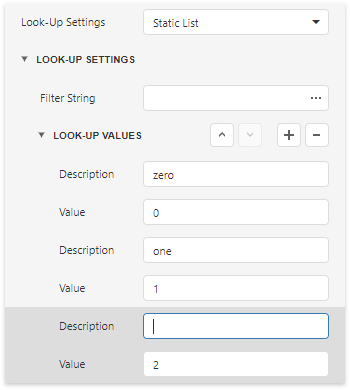
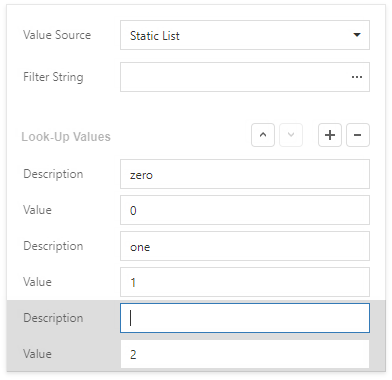
Update web parameters overview

diff --git a/interface-elements-for-web/articles/report-designer/shape-report-data/use-report-parameters/parameters-overview.md b/interface-elements-for-web/articles/report-designer/shape-report-data/use-report-parameters/parameters-overview.md
@@ -4,73 +4,94 @@ author: Anna Vekhina
 ---
 # Parameters Overview
 
-You can use report parameters to pass data to a report before it has been published. Parameter values are specified in the **Preview Parameters** panel.
+You can use report parameters to pass data to a report before it is generated. Parameter values are specified in the **Preview Parameters** panel.
 
-## Create Parameters
-To create a report parameter, switch to the [Field List](../../report-designer-tools/ui-panels/field-list.md), select the **Parameters** node and click **Add parameter**.
+Add Parameters
+
+Switch to the [Field List](../../report-designer-tools/ui-panels/field-list.md), select **Parameters** and click the ![](../../../../images/eurd-web-parameters-button-plus.png) button.
 
 ![](../../../../images/eurd-web-parameters-add-parameter-via-field-list.png)
 
-Click the **Edit** button to specify parameter properties. 
+This invokes the **Add Parameter** dialog where you can configure the created parameter.
 
-![](../../../../images/eurd-web-parameters-parameter-properties.png)
+![](../../../../images/eurd-web-parameters-add-parameter-dialog.png)
 
-The parameter provides the following options:
+The dialog provides the following options:
 
-* **Name** - specifies the unique name by which the parameter can be referred to.
-* **Description** - specifies the text that will be displayed in a Print Preview along with the corresponding value editor.
-* **Visible** - enable this option to request the parameter value in a Print Preview. Otherwise, the default parameter value is silently passed to the report.
-* **Multi-Value** - when this option is enabled, a parameter can be assigned a [collection of values](create-multi-value-and-cascading-parameters.md).
-* **Allow Null** - specifies whether the parameter's value can be unspecified. 
-* **Type** - specifies the parameter's value type, according to which an appropriate value editor is displayed in a Print Preview.
+* **Name**  
+	Specifies the unique name by which you can refer to the parameter.
+* **Description**  
+	Specifies the text that appears in Print Preview alongside with the value editor.
+* **Type**  
+	Specifies the parameter's value type. A value editor for the specified type is displayed in Print Preview.
+* **Visible**  
+	Enable this option to request the parameter value in Print Preview. Otherwise, the report takes the default parameter value.
+* **Multi-Value**  
+	Enable this option to allow a parameter to accept a [collection of values](multi-value-and-cascading-parameters.md).
+* **Allow Null**  
+	Enable this option if the parameter's value can be unspecified.
+* **Expression**  
+	Specifies an [expression](../../use-expressions.md) that defines the parameter's value based on specific conditions. Click the Expression property's ellipsis button and construct an expression in the invoked Expression Editor.
 * **Value** - specifies the default parameter value.
 
-* **Look-Up Settings** - specifies whether to choose the parameter's value from a predefined list. You can either manually populate this list with possible values, or specify a data source from where these values should be obtained.
+* **Value Source** - specifies whether to choose the parameter's value from a predefined list. You can either manually populate this list with possible values, or specify a data source from where these values should be obtained.
 
     * **No Look-Up**
-        
-       There is no a predefined list of a parameter's values.
+
+       There is no predefined list of parameter values.
 
     * **Static List**
-		
-		A parameter obtains a list of values from a static list of possible values. Each value should have a description that is displayed in Print Preview.
-		
+
+		A parameter is populated with predefined values from a static list. Each value should have a description that is displayed in Print Preview.
+
 		![](../../../../images/eurd-web-parameters-static-values.png)
-        
-        You can filter the list of values by specifying the **Filter String** property. Using this property, you can implement [cascading parameters](create-multi-value-and-cascading-parameters.md).
-	
+
+        You can specify the **Filter String** property to filter the list of values and implement [cascading parameters](multi-value-and-cascading-parameters.md).
+
 	* **Dynamic List**
-		
-		A parameter obtains a list of values from a specified data source. Look-Up settings contain a data source, and data member storing parameter values. The value member defines a data field that will provide values to the parameter. The display member defines a data field storing values displayed in Print Preview.
-		
+
+		A parameter obtains a list of values from a specified data source. Look-Up settings contain a data source and data member that store parameter values. The value member defines a data field that will provide values to the parameter. The display member defines a data field storing values displayed in Print Preview.
+
 		![](../../../../images/eurd-web-parameters-dynamic-values.png)
-		
-		The value type of the specified data member should match the specified parameter type.
+
+		The specified data member's value type should match the specified parameter type.
 
 		Specify the **Sort Order** and **Sort Member** properties to sort the list of values.
-		
-		
-## Use Parameters
-You can use report parameters to solve the following tasks:
 
-* **Filter Data**
-	
-	When [filtering report data](../filter-data/filter-data-at-the-report-level.md), parameters can be used for providing values to a report's **Filter String** property.
-	
+	* **Range Parameters** (is available for **Date** parameters only)
+
+		A parameter is a date range that includes a **Start Date** and **End Date**. The start and end dates provide the following properties:
+
+		* **Name** - the unique name by which you can refer to the parameter's start or end date.
+		* **Value** - the default date value.
+		* **Expression** - an expression that defines a date's value based on specific conditions.
+
+		![](../../../../images/eurd-web-parameters-range.png)
+
+## Use Parameters
+
+Report parameters pass data to a report before it is generated in Print Preview. You can specify these parameter's values.
+
+Use report parameters in the following cases:
+
+* **Filter**
+
+	Parameters can provide values to a report's **Filter String** to [filter report data](../filter-data/filter-data-at-the-report-level.md).
+
 	![](../../../../images/eurd-web-parameters-in-filter-string.png)
-	
-	When [filtering data at the level of a data source](../filter-data/filter-data-at-the-data-source-level.md), you can link report parameter to [query parameters](use-query-parameters.md) that are used in the SELECT statement of a SQL string.
+
+	You can link report parameter to [query parameters](query-parameters.md) used in the SQL string's SELECT statement to [filter data at the data source level](../filter-data/filter-data-at-the-data-source-level.md).
 
 * **Bind to Data**
-	
-	You can bind a report control to a parameter and display its value in the report. To create a new label bound to a parameter, drag the parameter from the [Field List](../../report-designer-tools/ui-panels/field-list.md) and drop it onto the required band.
+
+	You can bind a report control to a parameter and display its value in a report. To create a new [label](../../use-report-elements/use-basic-report-controls/label.md) bound to a parameter, drag the parameter from the [Field List](../../report-designer-tools/ui-panels/field-list.md) and drop it onto a band.
 	
 	![](../../../../images/eurd-web-parameters-for-data-binding.png)
 	
-	When using [mail merge](../../bind-to-data/use-embedded-fields-mail-merge.md), you can refer to a parameter by adding the **?** prefix before its name.
+	Add a question mark in front of a parameter's name to refer to it in [mail merge](../../bind-to-data/use-embedded-fields-mail-merge.md).
 
 * **Specify Expressions**
     
-    Parameters can be used as part of [expressions](../../use-expressions.md). To refer to a report parameter, use the **?** prefix before its name.
+    Use a question mark (?) in front of a parameter's name to include it in an [expression](../../use-expressions.md).
 
     ![](../../../../images/eurd-web-parameters-in-expression-editor.png)

diff --git a/interface-elements-for-desktop/articles/report-designer/report-designer-for-winforms/use-expressions/expression-syntax.md b/interface-elements-for-desktop/articles/report-designer/report-designer-for-winforms/use-expressions/expression-syntax.md
@@ -344,7 +344,7 @@ Below is a list of functions that are used to construct [expression bindings](..
 </td><td><p>Argb(1,200, 30, 200)</p>
 <p>Result: <em>&#39;1,200,30,200&#39;</em></p>
 </td></tr><tr><td><p>Join()</p>
-</td><td><p>Concatenates the <a class="xref" href="..\shape-report-data\use-report-parameters\create-multi-value-and-cascading-parameters.md">multi-value report parameter</a>&#39;s values into a string. This function is useful when you <a class="xref" href="..\shape-report-data\use-report-parameters\parameters-overview.md">bind a multi-value parameter to a label</a> to display the parameter&#39;s values in a report.</p>
+</td><td><p>Concatenates the <a class="xref" href="..\shape-report-data\use-report-parameters\multi-value-and-cascading-parameters.md">multi-value report parameter</a>&#39;s values into a string. This function is useful when you <a class="xref" href="..\shape-report-data\use-report-parameters\parameters-overview.md">bind a multi-value parameter to a label</a> to display the parameter&#39;s values in a report.</p>
 <p>This function has two overloads:</p>
 <ul>
 <li>Join(parameter) - concatenates the specified parameter&#39;s values using comma as a separator.</li>
@@ -366,7 +366,7 @@ The following functions are specific for [binding reports to a stored procedure]
 </th><th><p>Description</p>
 </th><th><p>Example</p>
 </th></tr><tr><td><p>Join()</p>
-</td><td><p>Concatenates the <a class="xref" href="..\shape-report-data\use-report-parameters\create-multi-value-and-cascading-parameters.md">multi-value report parameter</a>&#39;s values into a string. This function can be used when mapping multi-value report parameters to query parameters generated from a stored procedure&#39;s parameters. Refer to the <a class="xref" href="..\shape-report-data\use-report-parameters\use-query-parameters.md">Query Parameters</a> topic for more information.</p>
+</td><td><p>Concatenates the <a class="xref" href="..\shape-report-data\use-report-parameters\multi-value-and-cascading-parameters.md">multi-value report parameter</a>&#39;s values into a string. This function can be used when mapping multi-value report parameters to query parameters generated from a stored procedure&#39;s parameters. Refer to the <a class="xref" href="..\shape-report-data\use-report-parameters\query-parameters.md">Query Parameters</a> topic for more information.</p>
 <p>This function has two overloads:</p>
 <ul>
 <li>Join(parameter) - concatenates the specified parameter&#39;s values using comma as a separator.</li>
@@ -374,7 +374,7 @@ The following functions are specific for [binding reports to a stored procedure]
 </ul>
 </td><td><p>Join(?Parameter1)</p>
 </td></tr><tr><td><p>CreateTable(Column1, ..., ColumnN)</p>
-</td><td><p>Creates a table from several multi-value parameters&#39; values. This function can be used when mapping multi-value report parameters to the query parameter that is generated from a stored procedure&#39;s <a href="https://docs.microsoft.com/en-us/sql/relational-databases/tables/use-table-valued-parameters-database-engine">User Defined Table Type</a> parameter. Refer to the <a class="xref" href="..\shape-report-data\use-report-parameters\use-query-parameters.md">Query Parameters</a> topic for more information.</p>
+</td><td><p>Creates a table from several multi-value parameters&#39; values. This function can be used when mapping multi-value report parameters to the query parameter that is generated from a stored procedure&#39;s <a href="https://docs.microsoft.com/en-us/sql/relational-databases/tables/use-table-valued-parameters-database-engine">User Defined Table Type</a> parameter. Refer to the <a class="xref" href="..\shape-report-data\use-report-parameters\query-parameters.md">Query Parameters</a> topic for more information.</p>
 </td><td><p>CreateTable(?Parameter1, ..., ?ParameterN)</p>
 </td></tr></table>
 

diff --git a/interface-elements-for-web/articles/report-designer/use-expressions/expression-syntax.md b/interface-elements-for-web/articles/report-designer/use-expressions/expression-syntax.md
@@ -344,7 +344,7 @@ Below is a list of functions that are used to construct [expression bindings](..
 </td><td><p>Argb(1,200, 30, 200)</p>
 <p>Result: <em>&#39;1,200,30,200&#39;</em></p>
 </td></tr><tr><td><p>Join()</p>
-</td><td><p>Concatenates the <a class="xref" href="..\shape-report-data\use-report-parameters\create-multi-value-and-cascading-parameters.md">multi-value report parameter</a>&#39;s values into a string. This function is useful when you <a class="xref" href="..\shape-report-data\use-report-parameters\parameters-overview.md">bind a multi-value parameter to a label</a> to display the parameter&#39;s values in a report.</p>
+</td><td><p>Concatenates the <a class="xref" href="..\shape-report-data\use-report-parameters\multi-value-and-cascading-parameters.md">multi-value report parameter</a>&#39;s values into a string. This function is useful when you <a class="xref" href="..\shape-report-data\use-report-parameters\parameters-overview.md">bind a multi-value parameter to a label</a> to display the parameter&#39;s values in a report.</p>
 <p>This function has two overloads:</p>
 <ul>
 <li>Join(parameter) - concatenates the specified parameter&#39;s values using comma as a separator.</li>
@@ -366,7 +366,7 @@ The following functions are specific for [binding reports to a stored procedure]
 </th><th><p>Description</p>
 </th><th><p>Example</p>
 </th></tr><tr><td><p>Join()</p>
-</td><td><p>Concatenates the <a class="xref" href="..\shape-report-data\use-report-parameters\create-multi-value-and-cascading-parameters.md">multi-value report parameter</a>&#39;s values into a string. This function can be used when mapping multi-value report parameters to query parameters generated from a stored procedure&#39;s parameters. Refer to the <a class="xref" href="..\shape-report-data\use-report-parameters\use-query-parameters.md">Query Parameters</a> topic for more information.</p>
+</td><td><p>Concatenates the <a class="xref" href="..\shape-report-data\use-report-parameters\multi-value-and-cascading-parameters.md">multi-value report parameter</a>&#39;s values into a string. This function can be used when mapping multi-value report parameters to query parameters generated from a stored procedure&#39;s parameters. Refer to the <a class="xref" href="..\shape-report-data\use-report-parameters\query-parameters.md">Query Parameters</a> topic for more information.</p>
 <p>This function has two overloads:</p>
 <ul>
 <li>Join(parameter) - concatenates the specified parameter&#39;s values using comma as a separator.</li>
@@ -374,7 +374,7 @@ The following functions are specific for [binding reports to a stored procedure]
 </ul>
 </td><td><p>Join(?Parameter1)</p>
 </td></tr><tr><td><p>CreateTable(Column1, ..., ColumnN)</p>
-</td><td><p>Creates a table from several multi-value parameters&#39; values. This function can be used when mapping multi-value report parameters to the query parameter that is generated from a stored procedure&#39;s <a href="https://docs.microsoft.com/en-us/sql/relational-databases/tables/use-table-valued-parameters-database-engine">User Defined Table Type</a> parameter. Refer to the <a class="xref" href="..\shape-report-data\use-report-parameters\use-query-parameters.md">Query Parameters</a> topic for more information.</p>
+</td><td><p>Creates a table from several multi-value parameters&#39; values. This function can be used when mapping multi-value report parameters to the query parameter that is generated from a stored procedure&#39;s <a href="https://docs.microsoft.com/en-us/sql/relational-databases/tables/use-table-valued-parameters-database-engine">User Defined Table Type</a> parameter. Refer to the <a class="xref" href="..\shape-report-data\use-report-parameters\query-parameters.md">Query Parameters</a> topic for more information.</p>
 </td><td><p>CreateTable(?Parameter1, ..., ?ParameterN)</p>
 </td></tr></table>
 

diff --git a/interface-elements-for-desktop/articles/report-designer/report-designer-for-winforms/report-designer-tools/query-builder.md b/interface-elements-for-desktop/articles/report-designer/report-designer-for-winforms/report-designer-tools/query-builder.md
@@ -67,7 +67,7 @@ After executing the query, it returns a "flat" table composed of data records se
 > Although joining different tables within a single query may be required in some scenarios, creating [hierarchical data sources](data-source-wizard\connect-to-a-database\create-a-query-or-select-a-stored-procedure.md) generally results in better performance (in general, [master-detail reports](..\create-popular-reports\create-a-master-detail-report-use-detail-report-bands.md) are generated faster than similar-looking reports created by grouping "flat" data sources).
 
 ## <a name="editparameters"></a>Edit Parameters
-Click the **Edit Parameters** button to invoke the **Query Parameters** dialog, which allows you to add and remove [query parameters](..\shape-report-data\use-report-parameters\use-query-parameters.md) as well as specify parameter settings.
+Click the **Edit Parameters** button to invoke the **Query Parameters** dialog, which allows you to add and remove [query parameters](..\shape-report-data\use-report-parameters\query-parameters.md) as well as specify parameter settings.
 
 ![query-builder-diagram-query-parameters](../../../../images/eurd-win-query-builder-diagram-query-parameters.png)
 
@@ -80,7 +80,7 @@ For each query parameter, the following properties are available.
 
 The created parameters will be then available on the [Configure Query Parameters](data-source-wizard/connect-to-a-database/configure-query-parameters.md) wizard page.
 
-For general information on query parameters and ways of providing parameter values, see [Query Parameters](..\shape-report-data\use-report-parameters\use-query-parameters.md).
+For general information on query parameters and ways of providing parameter values, see [Query Parameters](..\shape-report-data\use-report-parameters\query-parameters.md).
 
 ## <a name="filterdata"></a>Filter Data
 To specify filter criteria, click the **Filter...** button in the Query Builder. This invokes the **Filter Editor**, which provides the following capabilities.

diff --git a/interface-elements-for-desktop/articles/report-designer/report-designer-for-winforms/shape-report-data/use-report-parameters/parameters-overview.md b/interface-elements-for-desktop/articles/report-designer/report-designer-for-winforms/shape-report-data/use-report-parameters/parameters-overview.md
@@ -41,7 +41,7 @@ The dialog provides the following options:
 * **Show in the parameters panel** (corresponds to the parameter's **Visible** property)  
 	Enable this option to request the parameter value in Print Preview. Otherwise, the report takes the default parameter value.
 * **Allow multiple values** (corresponds to the parameter's **Multi-Value** property)  
-	Enable this option to allow a parameter to accept a [collection of values](create-multi-value-and-cascading-parameters.md).
+	Enable this option to allow a parameter to accept a [collection of values](multi-value-and-cascading-parameters.md).
 * **Allow null value** (corresponds to the parameter's **Allow Null** property)  
 	Enable this option if the parameter's value can be unspecified.
 * **Range Value**  
@@ -57,7 +57,7 @@ The dialog provides the following options:
 		
 		The specified data member's value type should match the specified parameter type.
 		
-		Use the **Filter String** property to filter parameter values and implement [cascading parameters](create-multi-value-and-cascading-parameters.md).
+		Use the **Filter String** property to filter parameter values and implement [cascading parameters](multi-value-and-cascading-parameters.md).
 
 		Specify the **Sort Member** and **Sort Order** properties to sort parameter values.
 		
@@ -79,7 +79,7 @@ Use report parameters in the following cases:
 
 	![](../../../../../images/eurd-win-parameters-in-filter-string.png)
 
-	You can link the report parameter to [query parameters](use-query-parameters.md) used in the SQL string's SELECT statement to [filter data at the data source level](../filter-data/filter-data-at-the-data-source-level.md).
+	You can link the report parameter to [query parameters](query-parameters.md) used in the SQL string's SELECT statement to [filter data at the data source level](../filter-data/filter-data-at-the-data-source-level.md).
 
 * **Bind to Data**
 	

diff --git a/interface-elements-for-desktop/articles/report-designer/report-designer-for-winforms/bind-to-data/bind-a-report-to-a-stored-procedure.md b/interface-elements-for-desktop/articles/report-designer/report-designer-for-winforms/bind-to-data/bind-a-report-to-a-stored-procedure.md
@@ -27,7 +27,7 @@ This tutorial demonstrates how to bind a report to a stored procedure provided b
 6. On the next page, you can choose which tables, views and/or stored procedures to add to the report. Expand the **Stored Procedures** category, select the required stored procedure from the list of available stored procedures and click **Next**.
 	
 	![](../../../../images/eurd-win-data-source-wizard-select-stored-procedure.png)
-7. Then, the wizard generates query parameters for each stored procedure parameter. The next wizard page presents the generated query parameters. You can assign a static value or an expression to a parameter. In addition, you can map a report parameter to a query parameter. This is helpful when you specify parameter values in the report's Preview. For details on how to configure query parameters, refer to the [Use Query Parameters](../shape-report-data/use-report-parameters/use-query-parameters.md) topic.
+7. Then, the wizard generates query parameters for each stored procedure parameter. The next wizard page presents the generated query parameters. You can assign a static value or an expression to a parameter. In addition, you can map a report parameter to a query parameter. This is helpful when you specify parameter values in the report's Preview. For details on how to configure query parameters, refer to the [Use Query Parameters](../shape-report-data/use-report-parameters/query-parameters.md) topic.
 	
 	Click the **Preview** button and select a query to preview the result of the stored procedure execution with the specified parameters.
 	

diff --git a/interface-elements-for-desktop/articles/report-designer/report-designer-for-winforms/shape-report-data/use-report-parameters/query-parameters.md b/interface-elements-for-desktop/articles/report-designer/report-designer-for-winforms/shape-report-data/use-report-parameters/query-parameters.md
@@ -89,12 +89,12 @@ Below, you can see how a value is specified for a query parameter within the Dat
 		![](../../../../../images/eurd-win-query-parameters-existing-report-parameter.png)
 
 ## <a name="PassMultiValueParameterValueToQuery"></a>Pass a Multi-Value Parameter Value to a Query
-You can map [multi-value parameters](create-multi-value-and-cascading-parameters.md) to query parameters. For instance, the following query selects the orders whose IDs can be found within the values the _\@OrderID_ query parameter provides.
+You can map [multi-value parameters](multi-value-and-cascading-parameters.md) to query parameters. For instance, the following query selects the orders whose IDs can be found within the values the _\@OrderID_ query parameter provides.
 
 ![](../../../../../images/eurd-win-query-parameters-map-to-multi-value-parameter.png)
 
 ## <a name="multivalueparameterinstoredprocedure"></a>Pass a Multi-Value Report Parameter Value to a Stored Procedure
-You cannot pass a [multi-value parameter](create-multi-value-and-cascading-parameters.md) value to a stored procedure directly. Use one of the following expression functions:
+You cannot pass a [multi-value parameter](multi-value-and-cascading-parameters.md) value to a stored procedure directly. Use one of the following expression functions:
 
 * Use the [Join() expression function](../../use-expressions/expression-syntax.md) to convert the array of parameter values to a string if you use MS SQL Server, MySQL or Oracle database systems.
 

diff --git a/interface-elements-for-desktop/articles/report-designer/report-designer-for-winforms/bind-to-data/bind-a-report-to-a-database.md b/interface-elements-for-desktop/articles/report-designer/report-designer-for-winforms/bind-to-data/bind-a-report-to-a-database.md
@@ -45,7 +45,7 @@ This tutorial demonstrates how to bind a report to a hierarchical data source an
     > 
     > Although it is also possible to join different tables within a single query, creating hierarchical data sources is preferred in most cases to provide better performance (in general, master-detail reports are generated faster than similar-looking reports created by grouping "flat" data sources).
         
-Click **Finish** to complete the **Data Source Wizard**. If the selected queries or stored procedures contain any [parameters](../shape-report-data/use-report-parameters/use-query-parameters.md), you can go to the [next wizard page](../report-designer-tools/data-source-wizard/connect-to-a-database/configure-query-parameters.md) and define their values.
+Click **Finish** to complete the **Data Source Wizard**. If the selected queries or stored procedures contain any [parameters](../shape-report-data/use-report-parameters/query-parameters.md), you can go to the [next wizard page](../report-designer-tools/data-source-wizard/connect-to-a-database/configure-query-parameters.md) and define their values.
 
 The newly created SQL data source will be displayed in the **Components** node of the [Report Explorer](../report-designer-tools/ui-panels/report-explorer.md). Additionally, the hierarchy of the data source will be reflected by the [Field List](../report-designer-tools/ui-panels/field-list.md). In both panels, you can right-click the data source to access its settings.
 

diff --git a/interface-elements-for-web/articles/report-designer/shape-report-data/use-report-parameters/query-parameters.md b/interface-elements-for-web/articles/report-designer/shape-report-data/use-report-parameters/query-parameters.md
@@ -71,13 +71,13 @@ Below, you can see how a value is specified for a query parameter within the Dat
 	![](../../../../images/eurd-web-query-parameters-expression-editor.png)
 
 ## Pass a Multi-Value Parameter Value to a Query
-You can map [multi-value parameters](create-multi-value-and-cascading-parameters.md) to query parameters. 
+You can map [multi-value parameters](multi-value-and-cascading-parameters.md) to query parameters. 
 For instance, the following query selects the orders whose IDs can be found within the values the _\@OrderID_ query parameter provides.
 
 ![](../../../../images/eurd-web-query-parameters-map-to-multi-value-parameter.png)
 
 ## Pass a Multi-Value Report Parameter Value to a Stored Procedure
-You cannot pass a [multi-value parameter](create-multi-value-and-cascading-parameters.md) value to a stored procedure directly. Use one of the following expression functions:
+You cannot pass a [multi-value parameter](multi-value-and-cascading-parameters.md) value to a stored procedure directly. Use one of the following expression functions:
 
 * Use the [Join() expression function](../../use-expressions/expression-syntax.md) to convert the array of parameter values to a string if you use MS SQL Server, MySQL or Oracle database systems.
 

diff --git a/interface-elements-for-web/articles/report-designer/report-designer-tools/query-builder.md b/interface-elements-for-web/articles/report-designer/report-designer-tools/query-builder.md
@@ -59,7 +59,7 @@ The query provides the following options:
 	Specifies a custom query name (alias).
 * **Filter**
 	
-	Runs the [Filter Editor](filter-editor.md) where you can specify filter conditions for the resulting data. Filter criteria may contain [query parameters](../shape-report-data/use-report-parameters/use-query-parameters.md).
+	Runs the [Filter Editor](filter-editor.md) where you can specify filter conditions for the resulting data. Filter criteria may contain [query parameters](../shape-report-data/use-report-parameters/query-parameters.md).
 * **Group Filter**
 	
 	Runs the Filter Editor where you can specify filter conditions for grouped and aggregated data. This option is enabled only for grouped data.
@@ -139,7 +139,7 @@ The **Column Properties** section contains the following options:
 
 ## <a id="parameters"></a>Use Query Parameters
 
-Use the **Parameters** section to add, remove and edit [query parameters](../shape-report-data/use-report-parameters/use-query-parameters.md). 
+Use the **Parameters** section to add, remove and edit [query parameters](../shape-report-data/use-report-parameters/query-parameters.md). 
 
 ![](../../../images/eurd-web-designer-query-builder-parameters.png)
 

diff --git a/interface-elements-for-desktop/articles/report-designer/report-designer-for-winforms/report-designer-tools/data-source-wizard/connect-to-an-entity-framework-data-source/bind-to-a-stored-procedure.md b/interface-elements-for-desktop/articles/report-designer/report-designer-for-winforms/report-designer-tools/data-source-wizard/connect-to-an-entity-framework-data-source/bind-to-a-stored-procedure.md
@@ -10,6 +10,6 @@ This wizard page allows you to add stored procedures to the data source, configu
 To bind to a stored procedure, do the following.
 1. Click **Add**. Then, in the invoked window, select a required stored procedure and click **OK**.
 	
-2. [Configure the parameters](../../../shape-report-data/use-report-parameters/use-query-parameters.md) to be passed to the selected stored procedure. Make sure that the value of the passed parameter's **Type** property corresponds to the actual type of the stored procedure parameter.
+2. [Configure the parameters](../../../shape-report-data/use-report-parameters/query-parameters.md) to be passed to the selected stored procedure. Make sure that the value of the passed parameter's **Type** property corresponds to the actual type of the stored procedure parameter.
 
 Click **Next** to proceed to the next wizard page. If you have added more than one stored procedures on this page or if the current Entity Framework model additionally provides data tables, go to the [Select a Data Member](select-a-data-member.md) page.

diff --git a/interface-elements-for-web/articles/report-designer/shape-report-data/use-report-parameters.md b/interface-elements-for-web/articles/report-designer/shape-report-data/use-report-parameters.md
@@ -14,7 +14,7 @@ The topics in this section describe how to use parameters in a report:
 
 	Illustrates how to assign default and custom values to a report's parameters and describes the editors that are used to request these values in a Print Preview.
 
-* [Create Multi-Value and Cascading Report Parameters](use-report-parameters/create-multi-value-and-cascading-parameters.md)
+* [Create Multi-Value and Cascading Report Parameters](use-report-parameters/multi-value-and-cascading-parameters.md)
 
 	Explains how to configure report parameters to accept multiple values and filter a parameter's values based on another parameter's value.
 
@@ -22,6 +22,6 @@ The topics in this section describe how to use parameters in a report:
 
 	Describes how to create date range parameters to filter report data by a specific time period.
 
-* [Query Parameters](use-report-parameters/use-query-parameters.md)
+* [Query Parameters](use-report-parameters/query-parameters.md)
 
 	Explains how to link report parameters to query parameters defined in your report's data source.
